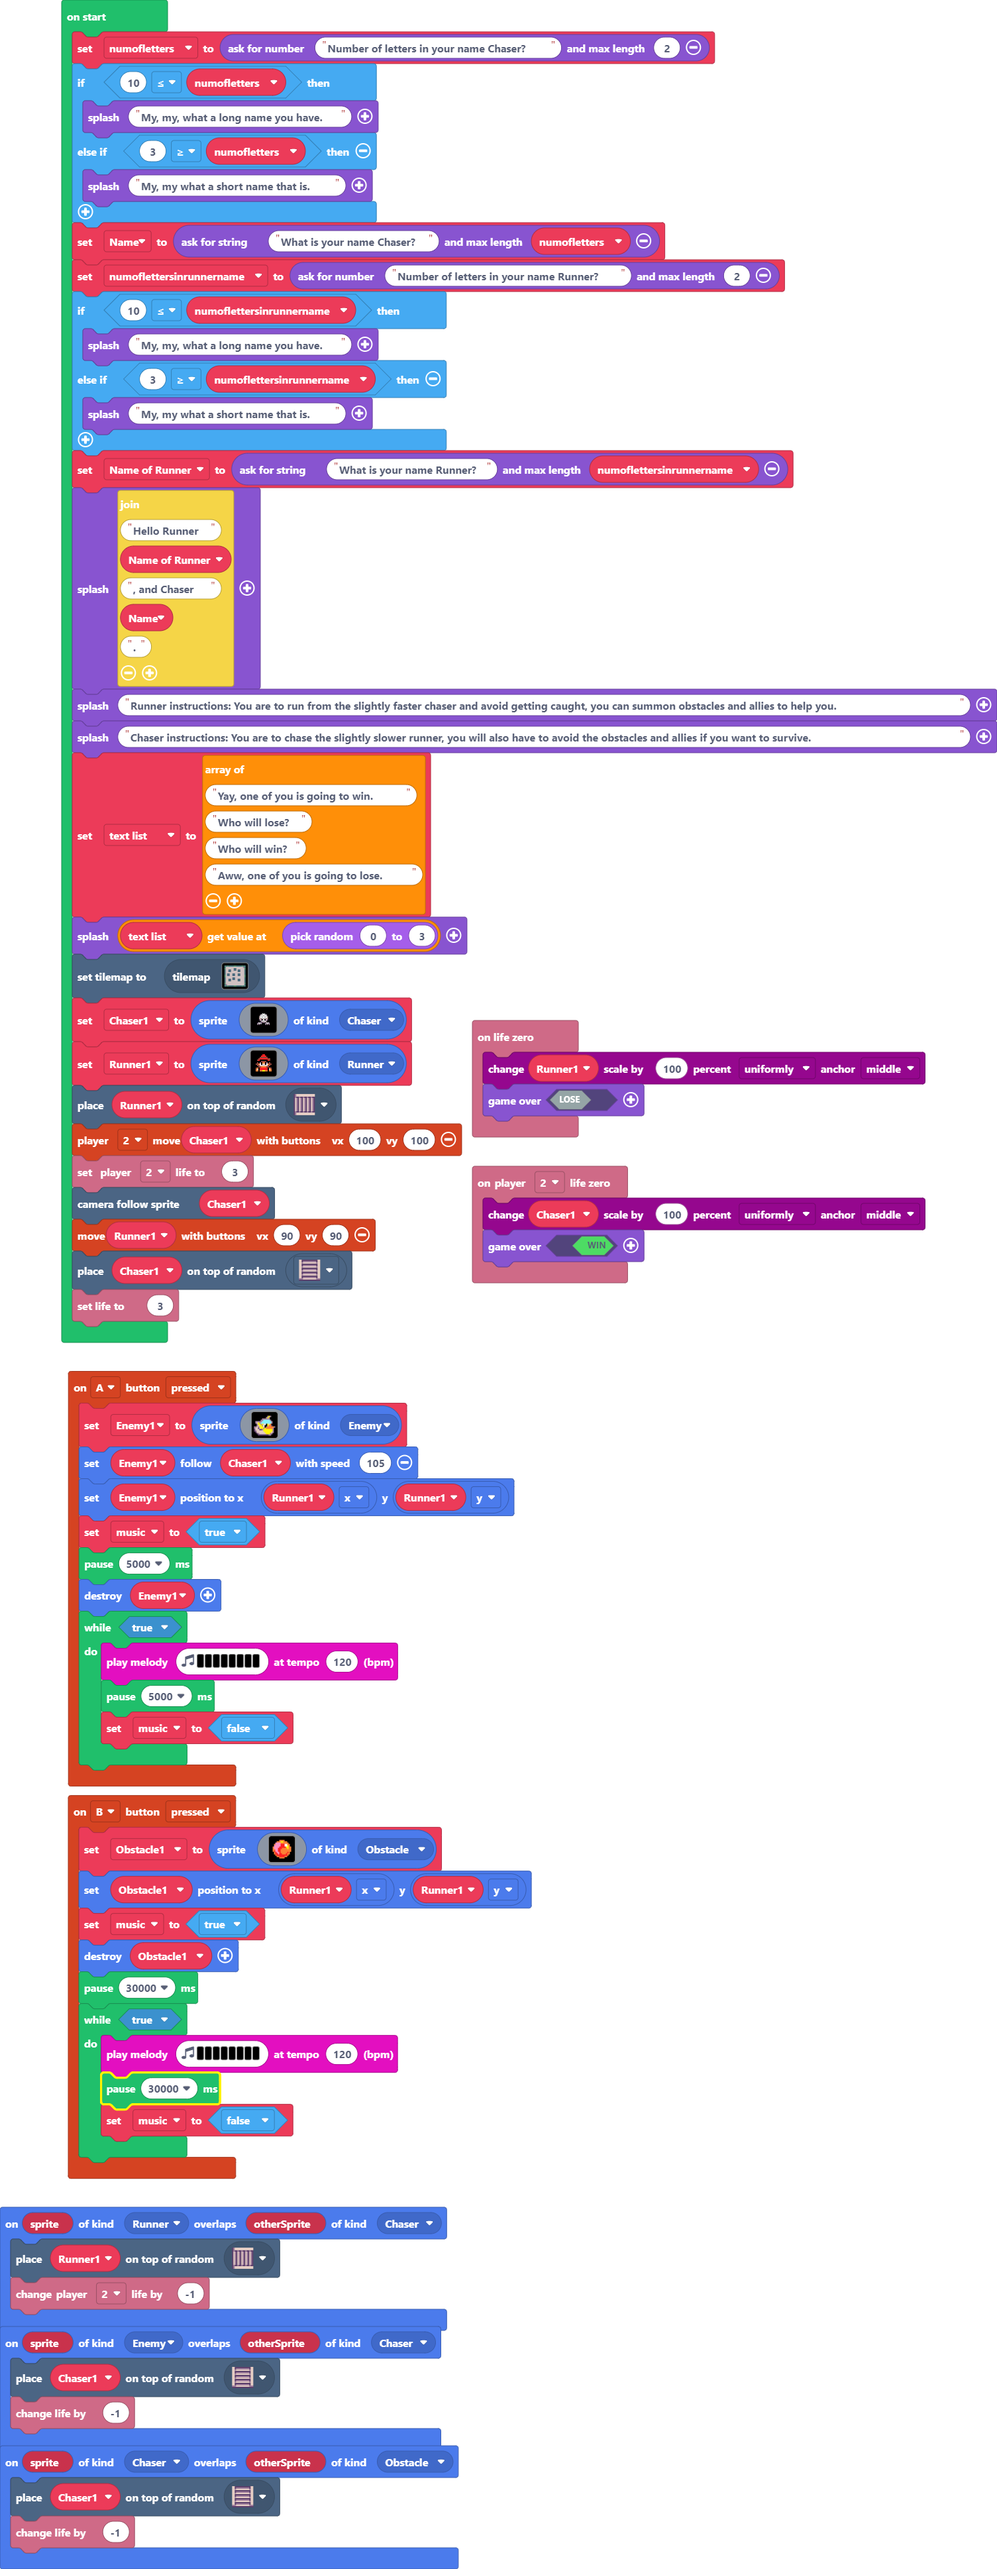
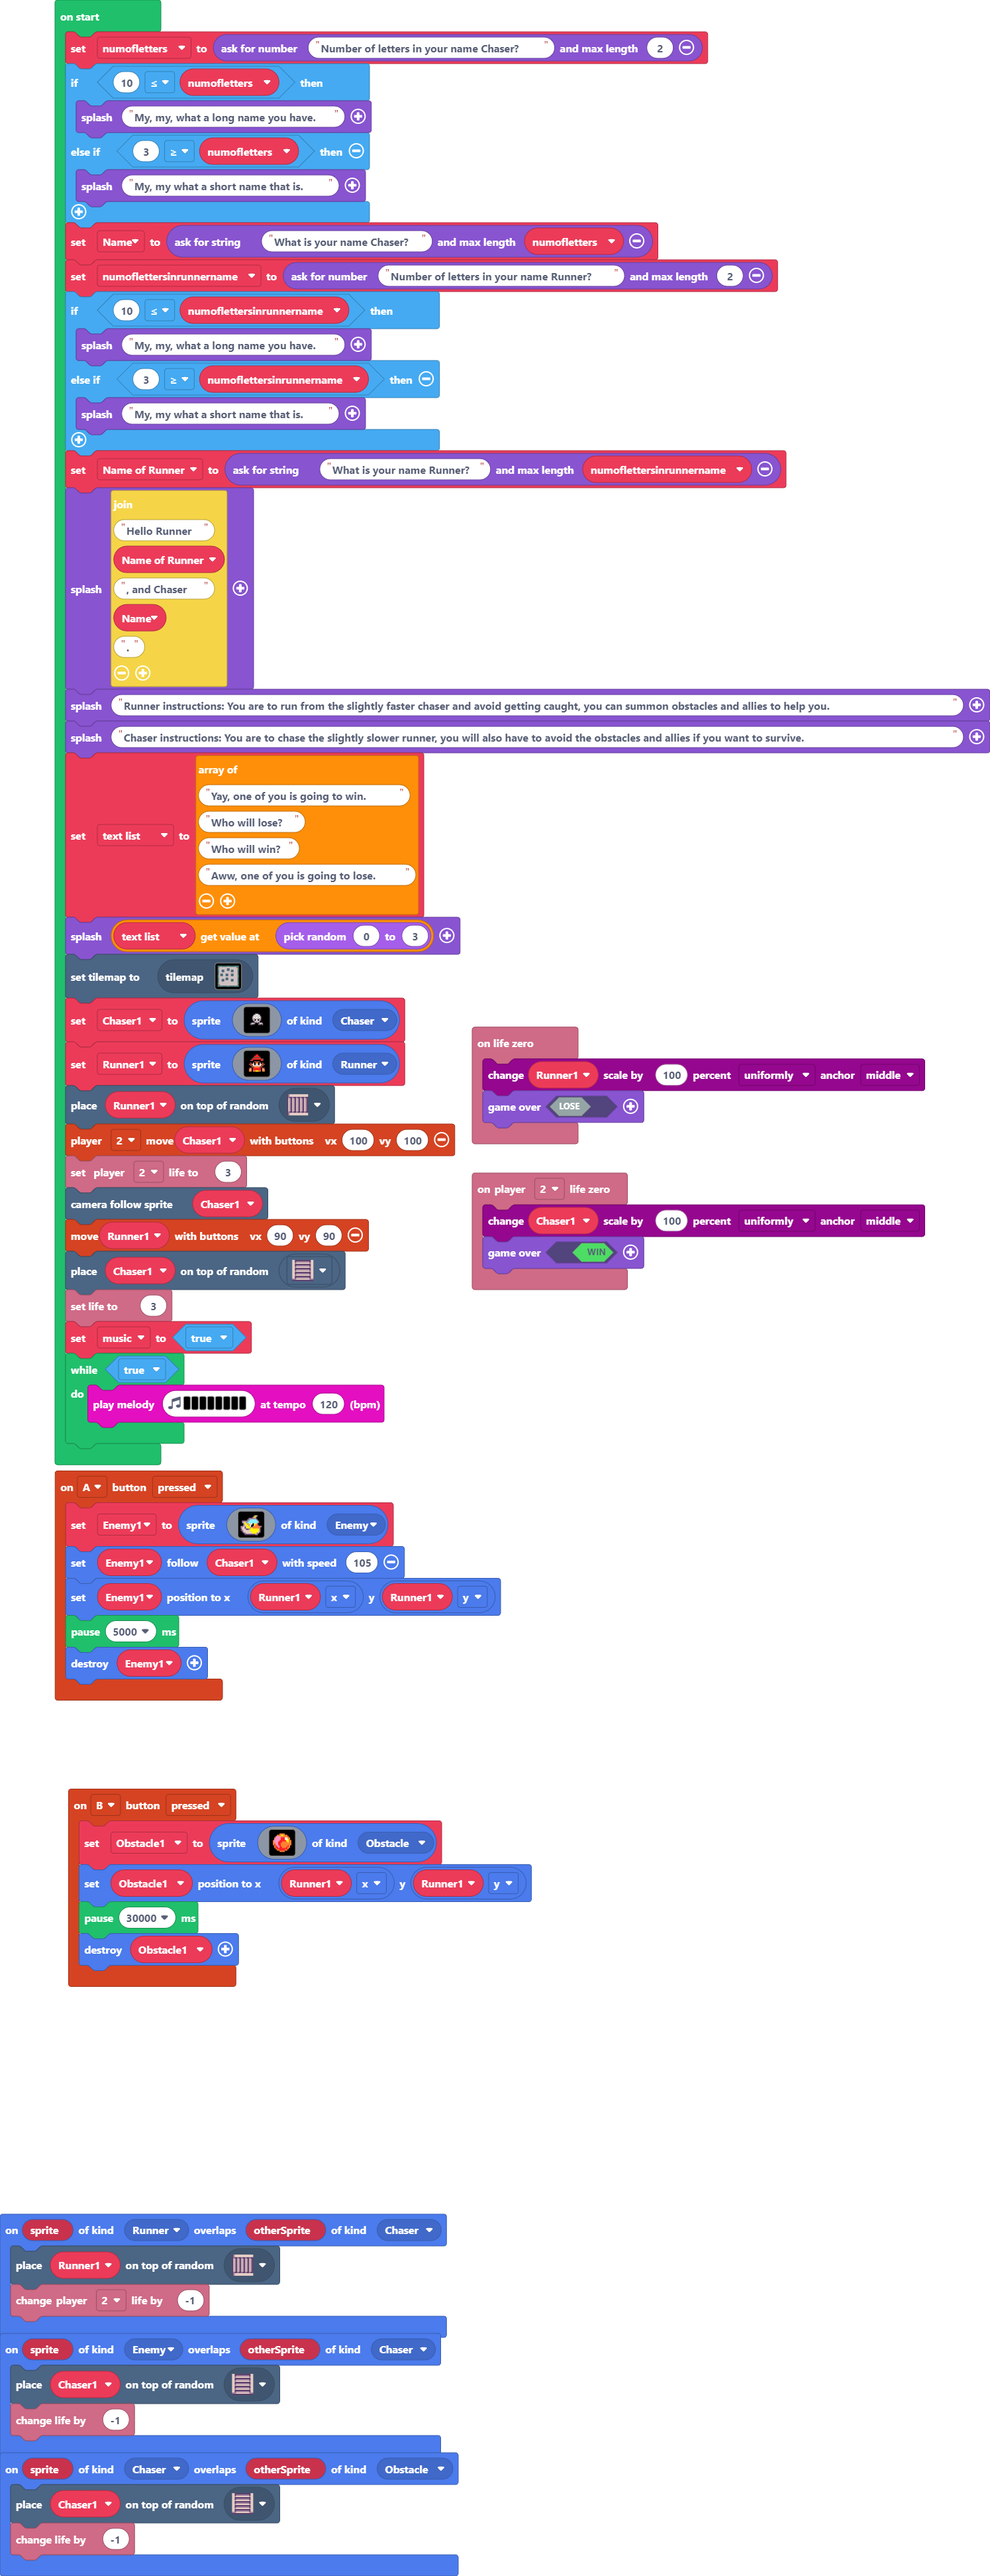
Update main.blocks, main.ts

diff --git a/main.ts b/main.ts
@@ -23,14 +23,8 @@ controller.B.onEvent(ControllerButtonEvent.Pressed, function () {
         . . . . . . . . . . . . . . . . 
         `, SpriteKind.Obstacle)
     Obstacle1.setPosition(Runner1.x, Runner1.y)
-    music2 = true
-    Obstacle1.destroy()
     pause(30000)
-    while (true) {
-        music.playMelody("C5 B C5 B C5 B C5 B ", 120)
-        pause(30000)
-        music2 = false
-    }
+    Obstacle1.destroy()
 })
 controller.A.onEvent(ControllerButtonEvent.Pressed, function () {
     Enemy1 = sprites.create(img`
@@ -53,14 +47,8 @@ controller.A.onEvent(ControllerButtonEvent.Pressed, function () {
         `, SpriteKind.Enemy)
     Enemy1.follow(Chaser1, 105)
     Enemy1.setPosition(Runner1.x, Runner1.y)
-    music2 = true
     pause(5000)
     Enemy1.destroy()
-    while (true) {
-        music.playMelody("C5 B C5 B C5 B C5 B ", 120)
-        pause(5000)
-        music2 = false
-    }
 })
 sprites.onOverlap(SpriteKind.Chaser, SpriteKind.Obstacle, function (sprite, otherSprite) {
     tiles.placeOnRandomTile(Chaser1, sprites.dungeon.stairNorth)
@@ -83,7 +71,6 @@ sprites.onOverlap(SpriteKind.Runner, SpriteKind.Chaser, function (sprite, otherS
     info.player2.changeLifeBy(-1)
 })
 let Enemy1: Sprite = null
-let music2 = false
 let Obstacle1: Sprite = null
 let Runner1: Sprite = null
 let Chaser1: Sprite = null
@@ -163,3 +150,7 @@ scene.cameraFollowSprite(Chaser1)
 controller.moveSprite(Runner1, 90, 90)
 tiles.placeOnRandomTile(Chaser1, sprites.dungeon.stairNorth)
 info.setLife(3)
+let music2 = true
+while (true) {
+    music.playMelody("C5 B A G F E D C ", 120)
+}
